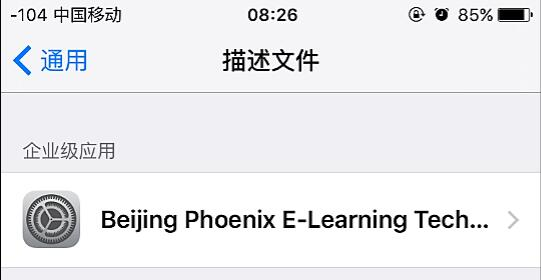
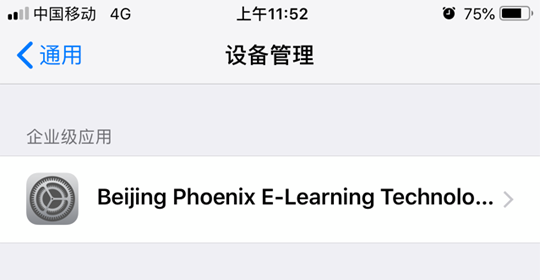
修改下载说明页面文案

diff --git a/download-page/page.html b/download-page/page.html
@@ -86,7 +86,7 @@
     <div class="wrapper main">
         <hr>
         <p><span style="color: red;">★</span>：iOS客户端在完成安装后需要进行以下操作才能正常使用：</p>
-        <p style="color: #00aeff; margin: 15px 0px;">找到 设置-&gt;通用-&gt;描述文件-&gt;</p>
+        <p style="color: #00aeff; margin: 15px 0px;">找到 设置-&gt;通用-&gt;设备管理-&gt;</p>
         <p>
             <img src="./page_files/explain.png" alt="">
         </p>
